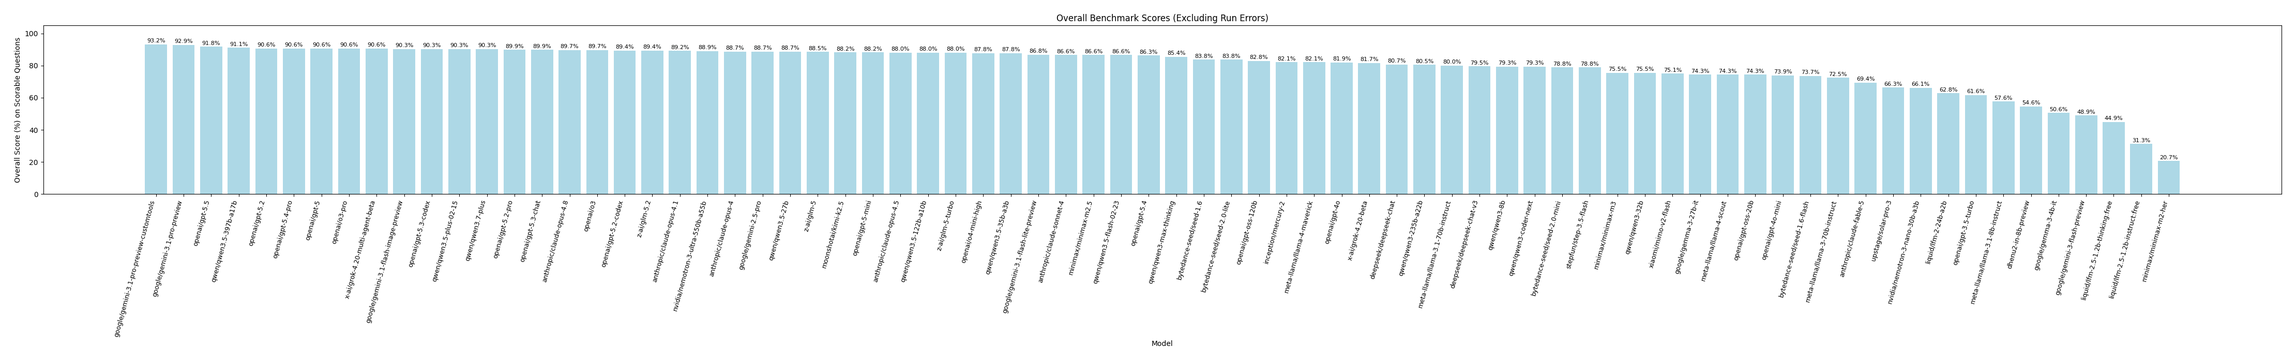
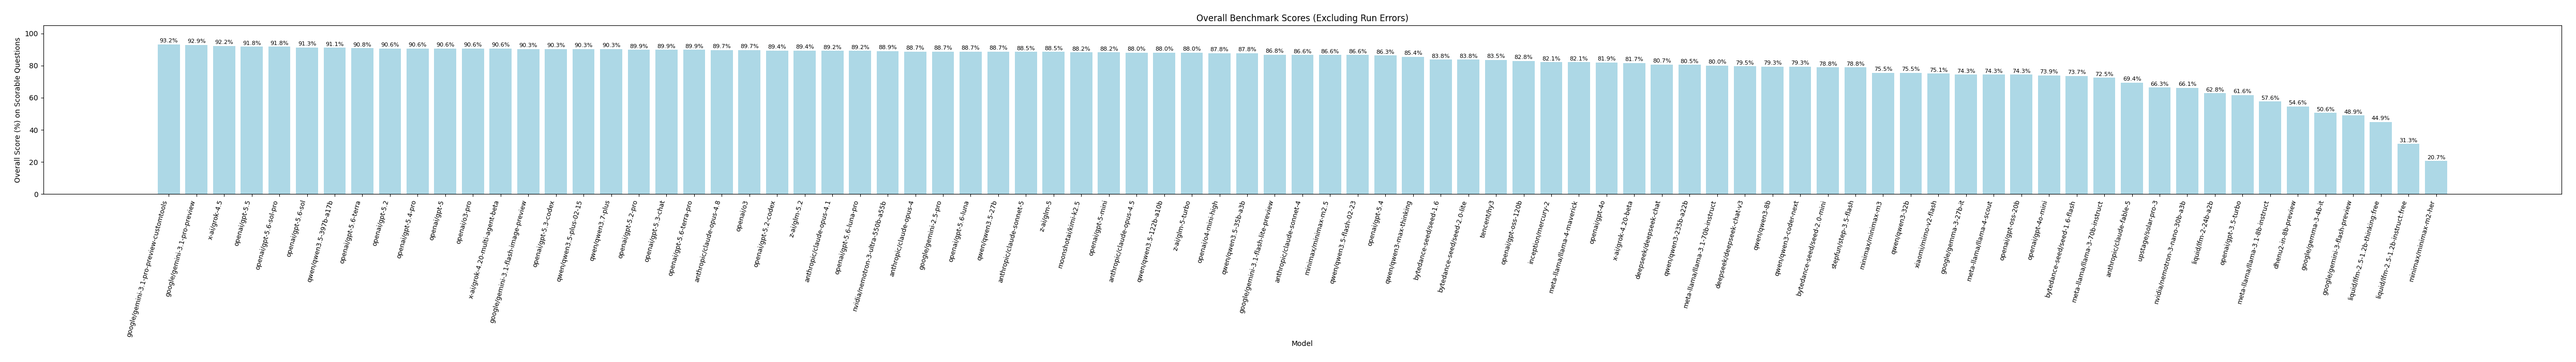
Add July models and quality-first OpenRouter precision routing
Benchmark the requested GPT-5.6, Grok 4.5, HY3, and Sonnet 5 models while enforcing the highest available endpoint quantization for consistent results.

diff --git a/openrouter_catalog.py b/openrouter_catalog.py
@@ -11,6 +11,7 @@ import config
 _OPENROUTER_MODELS_URL = "https://openrouter.ai/api/v1/models"
 _OPENROUTER_BASE_URL = "https://openrouter.ai/api/v1"
 _openrouter_catalog_cache = {}
+_openrouter_endpoint_cache = {}
 
 _OPEN_SOURCE_PREFIXES = {
     "allenai/",
@@ -310,6 +311,100 @@ def fetch_openrouter_model_metadata_map(
 
     _openrouter_catalog_cache[cache_key] = metadata_map
     return metadata_map
+
+
+def _fetch_openrouter_model_endpoints(model_id: str, api_key: str) -> list[dict]:
+    """Fetches OpenRouter provider endpoints for one model (cached per process)."""
+    if model_id in _openrouter_endpoint_cache:
+        return _openrouter_endpoint_cache[model_id]
+
+    request = urllib.request.Request(
+        f"{_OPENROUTER_MODELS_URL}/{model_id}/endpoints",
+        headers={"Authorization": f"Bearer {api_key}"},
+    )
+    with urllib.request.urlopen(request, timeout=30) as response:
+        payload = json.loads(response.read().decode("utf-8"))
+
+    data = payload.get("data") or {}
+    endpoints = data.get("endpoints") or payload.get("endpoints") or []
+    if not isinstance(endpoints, list):
+        endpoints = []
+    _openrouter_endpoint_cache[model_id] = endpoints
+    return endpoints
+
+
+def _select_best_quantization(endpoints: list[dict]) -> tuple[str | None, list[str]]:
+    """Selects the highest-precision known quantization exposed by OpenRouter.
+
+    Closed/first-party models generally report only ``unknown``; in that case we
+    explicitly route to ``unknown`` (provider-managed native precision). For
+    open-weight models, lower quants (FP4/INT4) are excluded whenever a higher
+    precision endpoint exists.
+    """
+    available = {
+        str(endpoint.get("quantization", "")).strip().lower()
+        for endpoint in endpoints
+        if endpoint.get("quantization")
+    }
+    available.discard("")
+
+    preference = tuple(
+        getattr(
+            config,
+            "OPENROUTER_QUANTIZATION_PREFERENCE",
+            ("fp32", "bf16", "fp16", "fp8", "int8", "fp6", "fp4", "int4"),
+        )
+    )
+    for quantization in preference:
+        if quantization in available:
+            return quantization, sorted(available)
+    if "unknown" in available:
+        return "unknown", sorted(available)
+    return None, sorted(available)
+
+
+def annotate_best_quantization(
+    model_configs: list[dict],
+    project_root: str | Path,
+    api_key_env: str,
+) -> list[dict]:
+    """Adds deterministic highest-precision OpenRouter routing to model configs.
+
+    Only OpenRouter-backed configs are modified. If endpoint discovery fails, the
+    request is left unfiltered rather than blocking the benchmark.
+    """
+    if not getattr(config, "OPENROUTER_ENFORCE_BEST_QUANTIZATION", True):
+        return model_configs
+
+    api_key = _load_openrouter_api_key(Path(project_root), api_key_env)
+    for model_config in model_configs:
+        if model_config.get("provider") != "openai_compatible":
+            continue
+        if "openrouter.ai" not in str(model_config.get("base_url", "")):
+            continue
+
+        model_id = model_config.get("model_name_api") or model_config.get("id")
+        try:
+            endpoints = _fetch_openrouter_model_endpoints(model_id, api_key)
+            selected, available = _select_best_quantization(endpoints)
+        except Exception as exc:
+            model_config["quantization_resolution_error"] = (
+                f"{type(exc).__name__}: {exc}"
+            )
+            continue
+
+        model_config["available_quantizations"] = available
+        if selected:
+            model_config["openrouter_quantization"] = selected
+            model_config["openrouter_provider_routing"] = {
+                "quantizations": [selected],
+                "sort": getattr(
+                    config, "OPENROUTER_PROVIDER_SORT_WITHIN_QUANTIZATION", "throughput"
+                ),
+                "allow_fallbacks": True,
+            }
+
+    return model_configs
 
 
 def annotate_vision_support(

diff --git a/config.py b/config.py
@@ -45,6 +45,15 @@ OPENROUTER_DISCOVERED_MODEL_RATE_LIMIT_BACKOFF_SECONDS = 20
 OPENROUTER_DISCOVERED_FREE_MODEL_QUESTION_CONCURRENCY = 1
 OPENROUTER_DISCOVERED_FREE_MODEL_MAX_RETRIES = 6
 OPENROUTER_DISCOVERED_FREE_MODEL_RATE_LIMIT_BACKOFF_SECONDS = 30
+# Route each model only through its highest-precision OpenRouter endpoints.
+# Preference is quality-first; providers are ranked by throughput only after
+# filtering to a single quantization. Closed/first-party models usually expose
+# precision as "unknown", which is treated as provider-managed native precision.
+OPENROUTER_ENFORCE_BEST_QUANTIZATION = True
+OPENROUTER_QUANTIZATION_PREFERENCE = (
+    "fp32", "bf16", "fp16", "fp8", "int8", "fp6", "fp4", "int4",
+)
+OPENROUTER_PROVIDER_SORT_WITHIN_QUANTIZATION = "throughput"
 
 # --- Benchmark Settings ---
 MAX_RETRIES = 5
@@ -109,7 +118,82 @@ ASSISTANT_PROMPT = "Correct answer_options key:" # For models supporting assista
 
 MODELS_TO_RUN = [
 
-    # ========== LATEST SOTA (June 2026) ==========
+    # ========== LATEST SOTA (July 2026) ==========
+
+    {
+        "id": "openai/gpt-5.6-luna-pro",
+        "provider": "openai_compatible",
+        "api_key_env": "OPENROUTER_API_KEY",
+        "base_url": "https://openrouter.ai/api/v1",
+        "model_name_api": "openai/gpt-5.6-luna-pro",
+        "access": "proprietary"
+    },
+    {
+        "id": "openai/gpt-5.6-luna",
+        "provider": "openai_compatible",
+        "api_key_env": "OPENROUTER_API_KEY",
+        "base_url": "https://openrouter.ai/api/v1",
+        "model_name_api": "openai/gpt-5.6-luna",
+        "access": "proprietary"
+    },
+    {
+        "id": "openai/gpt-5.6-terra-pro",
+        "provider": "openai_compatible",
+        "api_key_env": "OPENROUTER_API_KEY",
+        "base_url": "https://openrouter.ai/api/v1",
+        "model_name_api": "openai/gpt-5.6-terra-pro",
+        "access": "proprietary"
+    },
+    {
+        "id": "openai/gpt-5.6-terra",
+        "provider": "openai_compatible",
+        "api_key_env": "OPENROUTER_API_KEY",
+        "base_url": "https://openrouter.ai/api/v1",
+        "model_name_api": "openai/gpt-5.6-terra",
+        "access": "proprietary"
+    },
+    {
+        "id": "openai/gpt-5.6-sol-pro",
+        "provider": "openai_compatible",
+        "api_key_env": "OPENROUTER_API_KEY",
+        "base_url": "https://openrouter.ai/api/v1",
+        "model_name_api": "openai/gpt-5.6-sol-pro",
+        "access": "proprietary"
+    },
+    {
+        "id": "openai/gpt-5.6-sol",
+        "provider": "openai_compatible",
+        "api_key_env": "OPENROUTER_API_KEY",
+        "base_url": "https://openrouter.ai/api/v1",
+        "model_name_api": "openai/gpt-5.6-sol",
+        "access": "proprietary"
+    },
+    {
+        "id": "x-ai/grok-4.5",
+        "provider": "openai_compatible",
+        "api_key_env": "OPENROUTER_API_KEY",
+        "base_url": "https://openrouter.ai/api/v1",
+        "model_name_api": "x-ai/grok-4.5",
+        "access": "proprietary"
+    },
+    {
+        "id": "tencent/hy3",
+        "provider": "openai_compatible",
+        "api_key_env": "OPENROUTER_API_KEY",
+        "base_url": "https://openrouter.ai/api/v1",
+        "model_name_api": "tencent/hy3",
+        "access": "open source"
+    },
+    {
+        "id": "anthropic/claude-sonnet-5",
+        "provider": "openai_compatible",
+        "api_key_env": "OPENROUTER_API_KEY",
+        "base_url": "https://openrouter.ai/api/v1",
+        "model_name_api": "anthropic/claude-sonnet-5",
+        "access": "proprietary",
+        # Current Anthropic models reject assistant-message prefill.
+        "assistant_prompt": None
+    },
 
     {
         "id": "openai/gpt-5.5",

diff --git a/llm_api_calls.py b/llm_api_calls.py
@@ -135,14 +135,26 @@ async def _call_openai_sdk(client: AsyncOpenAI,
         if assistant_prompt:
             messages.append({"role": "assistant", "content": assistant_prompt})
 
-        response = await client.chat.completions.create(
-            model=model_name_api,
-            messages=messages,
-            max_tokens=_param(model_config, "max_tokens", config.TOKENS_TO_REQUEST),
-            n=1,
-            temperature=_param(model_config, "temperature", config.DETERMINISTIC_TEMP),
-            # stream=False
-        )
+        request_kwargs = {
+            "model": model_name_api,
+            "messages": messages,
+            "max_tokens": _param(
+                model_config, "max_tokens", config.TOKENS_TO_REQUEST
+            ),
+            "n": 1,
+            "temperature": _param(
+                model_config, "temperature", config.DETERMINISTIC_TEMP
+            ),
+        }
+        # OpenRouter-specific provider routing is passed through the SDK via
+        # extra_body. Quantization is resolved before the run and filtered to one
+        # highest-precision tier, so fallback providers cannot silently downgrade
+        # a model to FP4/INT4.
+        provider_routing = model_config.get("openrouter_provider_routing")
+        if provider_routing:
+            request_kwargs["extra_body"] = {"provider": provider_routing}
+
+        response = await client.chat.completions.create(**request_kwargs)
         if (
             response.choices
             and response.choices[0].message

diff --git a/main.py b/main.py
@@ -368,6 +368,26 @@ async def main():
 
         # Execute benchmark runs if any models were selected``
         if models_to_run_this_session:
+            openrouter_catalog.annotate_best_quantization(
+                models_to_run_this_session,
+                project_root=Path(__file__).resolve().parent,
+                api_key_env=config.OPENROUTER_DISCOVERY_API_KEY_ENV,
+            )
+            print("\n--- OpenRouter Quantization Routing (quality-first) ---")
+            for model_config in models_to_run_this_session:
+                quantization = model_config.get("openrouter_quantization")
+                available = model_config.get("available_quantizations", [])
+                if quantization:
+                    print(
+                        f"  -> {model_config['id']}: {quantization} "
+                        f"(available: {', '.join(available) or 'unknown'})"
+                    )
+                elif model_config.get("quantization_resolution_error"):
+                    print(
+                        f"  -> Warning {model_config['id']}: "
+                        f"{model_config['quantization_resolution_error']}; "
+                        "using default routing"
+                    )
             await benchmark_runner.run_benchmarks(
                 models_to_run=models_to_run_this_session,
                 benchmark_questions_file=config.BENCHMARK_QUESTIONS_FILE,

diff --git a/benchmark_runner.py b/benchmark_runner.py
@@ -394,6 +394,11 @@ async def run_single_model_benchmark(model_config, benchmark_questions, base_pro
         "retryable": True,
         "question_concurrency": question_concurrency,
         "max_retries": max_retries,
+        "openrouter_quantization": model_config.get("openrouter_quantization"),
+        "available_quantizations": model_config.get("available_quantizations", []),
+        "openrouter_provider_routing": model_config.get(
+            "openrouter_provider_routing"
+        ),
         "multiple_choice": {},
         "resumed_from_checkpoint": False,
     }

diff --git a/README.md b/README.md
@@ -16,8 +16,12 @@
 |------------------------------------------|---------------|------------|-------------|----------------|-------------------------|-----------------|---------------|------------|------------|---------------------|-----------------|----------------|------------------------|
 | google/gemini-3.1-pro-preview-customtools |         93.18% | Proprietary | 2026-06-16  |    $12.0000    |                   92.0% |           92.7% |         66.0% |      72.0% |      80.0% |               94.1% |           91.9% |          95.0% |                  92.4% | (396/425)
 | google/gemini-3.1-pro-preview             |         92.94% | Proprietary | 2026-06-16  |    $12.0000    |                   92.0% |           92.7% |         70.0% |      70.0% |      78.0% |               95.3% |           91.9% |          93.8% |                  91.4% | (395/425)
+| x-ai/grok-4.5                             |         92.24% | Proprietary | 2026-07-09  |    $6.0000     |                   92.0% |           91.2% |         56.0% |      60.0% |      62.0% |               94.1% |           91.9% |          96.2% |                  88.6% | (392/425)
 | openai/gpt-5.5                            |         91.76% | Proprietary | 2026-06-16  |    $30.0000    |                   96.0% |           92.7% |         56.0% |      60.0% |      78.0% |               95.3% |           90.3% |          95.0% |                  85.7% | (390/425)
+| openai/gpt-5.6-sol-pro                    |         91.76% | Proprietary | 2026-07-09  |    $30.0000    |                   96.0% |           92.7% |         68.0% |      60.0% |      66.0% |               94.1% |           87.1% |          93.8% |                  89.5% | (390/425)
+| openai/gpt-5.6-sol                        |         91.29% | Proprietary | 2026-07-09  |    $30.0000    |                   96.0% |           92.7% |         64.0% |      64.0% |      70.0% |               94.1% |           87.1% |          95.0% |                  86.7% | (388/425)
 | qwen/qwen3.5-397b-a17b                    |         91.06% | Open Source | 2026-06-16  |    $2.4500     |                   80.0% |           92.7% |         58.0% |      52.0% |      76.0% |               94.1% |           93.5% |          92.5% |                  87.6% | (387/425)
+| openai/gpt-5.6-terra                      |         90.82% | Proprietary | 2026-07-09  |    $15.0000    |                   96.0% |           92.7% |         56.0% |      58.0% |      68.0% |               91.8% |           90.3% |          93.8% |                  85.7% | (386/425)
 | openai/gpt-5.2                            |         90.59% | Proprietary | 2026-06-16  |    $14.0000    |                   92.0% |           94.1% |         62.0% |      60.0% |      72.0% |               94.1% |           88.7% |          93.8% |                  83.8% | (385/425)
 | openai/gpt-5.4-pro                        |         90.59% | Proprietary | 2026-06-16  |   $180.0000    |                   88.0% |           91.2% |         70.0% |      66.0% |      64.0% |               95.3% |           87.1% |          93.8% |                  86.7% | (385/425)
 | openai/gpt-5                              |         90.59% | Proprietary | 2026-06-16  |    $10.0000    |                   88.0% |           91.2% |         68.0% |      68.0% |      74.0% |               92.9% |           88.7% |          92.5% |                  88.6% | (385/425)
@@ -29,15 +33,19 @@
 | qwen/qwen3.7-plus                         |         90.35% | Open Source | 2026-06-16  |    $1.2800     |                   84.0% |           94.1% |         64.0% |      58.0% |      64.0% |               91.8% |           91.9% |          90.0% |                  87.6% | (384/425)
 | openai/gpt-5.2-pro                        |         89.88% | Proprietary | 2026-06-16  |   $168.0000    |                   92.0% |           91.2% |         66.0% |      60.0% |      80.0% |               92.9% |           88.7% |          91.2% |                  85.7% | (382/425)
 | openai/gpt-5.3-chat                       |         89.88% | Proprietary | 2026-06-16  |    $14.0000    |                   84.0% |           94.1% |         62.0% |      58.0% |      62.0% |               94.1% |           88.7% |          90.0% |                  85.7% | (382/425)
+| openai/gpt-5.6-terra-pro                  |         89.88% | Proprietary | 2026-07-09  |    $15.0000    |                   92.0% |           92.7% |         52.0% |      60.0% |      64.0% |               89.4% |           90.3% |          92.5% |                  85.7% | (382/425)
 | anthropic/claude-opus-4.8                 |         89.65% | Proprietary | 2026-06-16  |    $25.0000    |                   84.0% |           89.7% |         66.0% |      56.0% |      68.0% |               89.4% |           88.7% |          95.0% |                  87.6% | (381/425)
 | openai/o3                                 |         89.65% | Proprietary | 2026-06-16  |    $8.0000     |                   88.0% |           92.7% |         70.0% |      62.0% |      72.0% |               89.4% |           85.5% |          92.5% |                  88.6% | (381/425)
 | openai/gpt-5.2-codex                      |         89.41% | Proprietary | 2026-06-16  |    $14.0000    |                   88.0% |           91.2% |         62.0% |      54.0% |      70.0% |               91.8% |           88.7% |          93.8% |                  83.8% | (380/425)
-| z-ai/glm-5.2                              |         89.41% | Open Source | 2026-06-16  |    $4.4000     |                   84.0% |           91.2% |      N/A      |    N/A     |    N/A     |               90.6% |           88.7% |          91.2% |                  87.6% | (380/425)
+| z-ai/glm-5.2                              |         89.41% | Open Source | 2026-07-09  |    $1.7600     |                   84.0% |           91.2% |      N/A      |    N/A     |    N/A     |               90.6% |           88.7% |          91.2% |                  87.6% | (380/425)
 | anthropic/claude-opus-4.1                 |         89.18% | Proprietary | 2026-06-16  |    $75.0000    |                   84.0% |           88.2% |         54.0% |      56.0% |      46.0% |               91.8% |           91.9% |          91.2% |                  85.7% | (379/425)
+| openai/gpt-5.6-luna-pro                   |         89.18% | Proprietary | 2026-07-09  |    $6.0000     |                   80.0% |           91.2% |         56.0% |      60.0% |      70.0% |               89.4% |           90.3% |          92.5% |                  86.7% | (379/425)
 | nvidia/nemotron-3-ultra-550b-a55b         |         88.94% | Open Source | 2026-06-16  |    $2.2000     |                   88.0% |           91.2% |      N/A      |    N/A     |    N/A     |               90.6% |           85.5% |          91.2% |                  86.7% | (378/425)
 | anthropic/claude-opus-4                   |         88.71% | Proprietary | 2026-06-16  |    $75.0000    |                   84.0% |           89.7% |         48.0% |      56.0% |      48.0% |               89.4% |           90.3% |          91.2% |                  85.7% | (377/425)
 | google/gemini-2.5-pro                     |         88.71% | Proprietary | 2026-06-16  |    $10.0000    |                   84.0% |           91.2% |         58.0% |      64.0% |      80.0% |               88.2% |           88.7% |          90.0% |                  87.6% | (377/425)
+| openai/gpt-5.6-luna                       |         88.71% | Proprietary | 2026-07-09  |    $6.0000     |                   76.0% |           89.7% |         62.0% |      56.0% |      76.0% |               92.9% |           90.3% |          90.0% |                  85.7% | (377/425)
 | qwen/qwen3.5-27b                          |         88.71% | Open Source | 2026-06-16  |    $1.5600     |                   76.0% |           91.2% |         58.0% |      42.0% |      48.0% |               91.8% |           88.7% |          90.0% |                  86.7% | (377/425)
+| anthropic/claude-sonnet-5                 |         88.47% | Proprietary | 2026-07-09  |    $10.0000    |                   76.0% |           89.7% |         56.0% |      66.0% |      64.0% |               91.8% |           88.7% |          91.2% |                  85.7% | (376/425)
 | z-ai/glm-5                                |         88.47% | Open Source | 2026-06-16  |    $1.9200     |                   88.0% |           88.2% |      N/A      |    N/A     |    N/A     |               94.1% |           87.1% |          90.0% |                  83.8% | (376/425)
 | moonshotai/kimi-k2.5                      |         88.24% | Open Source | 2026-06-16  |    $2.0250     |                   84.0% |           86.8% |         72.0% |      56.0% |      74.0% |               90.6% |           87.1% |          90.0% |                  87.6% | (375/425)
 | openai/gpt-5-mini                         |         88.24% | Proprietary | 2026-06-16  |    $2.0000     |                   76.0% |           91.2% |         70.0% |      60.0% |      62.0% |               91.8% |           90.3% |          90.0% |                  83.8% | (375/425)
@@ -54,6 +62,7 @@
 | qwen/qwen3-max-thinking                   |         85.41% | Open Source | 2026-06-16  |    $3.9000     |                   60.0% |           88.2% |      N/A      |    N/A     |    N/A     |               85.9% |           83.9% |          87.5% |                  88.6% | (363/425)
 | bytedance-seed/seed-1.6                   |         83.76% | Proprietary | 2026-06-16  |    $2.0000     |                   68.0% |           86.8% |         68.0% |      56.0% |      62.0% |               82.3% |           83.9% |          85.0% |                  85.7% | (356/425)
 | bytedance-seed/seed-2.0-lite              |         83.76% | Proprietary | 2026-06-16  |    $2.0000     |                   68.0% |           83.8% |         52.0% |      62.0% |      60.0% |               83.5% |           83.9% |          88.8% |                  83.8% | (356/425)
+| tencent/hy3                               |         83.53% | Open Source | 2026-07-09  |    $0.5800     |                   60.0% |           85.3% |      N/A      |    N/A     |    N/A     |               88.2% |           83.9% |          86.2% |                  81.9% | (355/425)
 | openai/gpt-oss-120b                       |         82.82% | Open Source | 2026-06-16  |    $0.1800     |                   56.0% |           85.3% |      N/A      |    N/A     |    N/A     |               84.7% |           83.9% |          90.0% |                  80.0% | (352/425)
 | inception/mercury-2                       |         82.12% | Proprietary | 2026-06-16  |    $0.7500     |                   56.0% |           80.9% |      N/A      |    N/A     |    N/A     |               81.2% |           87.1% |          88.8% |                  81.9% | (349/425)
 | meta-llama/llama-4-maverick               |         82.12% | Open Source | 2026-06-16  |    $0.6000     |                   60.0% |           83.8% |         52.0% |      56.0% |      40.0% |               82.3% |           85.5% |          81.2% |                  84.8% | (349/425)
@@ -63,23 +72,23 @@
 | qwen/qwen3-235b-a22b                      |         80.47% | Open Source | 2026-06-16  |    $1.8200     |                   68.0% |           79.4% |      N/A      |    N/A     |    N/A     |               81.2% |           80.7% |          80.0% |                  83.8% | (342/425)
 | meta-llama/llama-3.1-70b-instruct         |         80.00% | Open Source | 2026-06-16  |    $0.4000     |                   72.0% |           79.4% |      N/A      |    N/A     |    N/A     |               80.0% |           85.5% |          81.2% |                  78.1% | (340/425)
 | deepseek/deepseek-chat-v3                 |         79.53% | Open Source | 2026-06-16  |      N/A       |                   60.0% |           83.8% |      N/A      |    N/A     |    N/A     |               75.3% |           82.3% |          81.2% |                  81.9% | (338/425)
-| qwen/qwen3-8b                             |         79.29% | Open Source | 2026-06-16  |    $0.4000     |                   48.0% |           82.3% |      N/A      |    N/A     |    N/A     |               80.0% |           79.0% |          85.0% |                  80.0% | (337/425)
+| qwen/qwen3-8b                             |         79.29% | Open Source | 2026-06-16  |    $0.4550     |                   48.0% |           82.3% |      N/A      |    N/A     |    N/A     |               80.0% |           79.0% |          85.0% |                  80.0% | (337/425)
 | qwen/qwen3-coder-next                     |         79.29% | Open Source | 2026-06-16  |    $0.8000     |                   56.0% |           83.8% |      N/A      |    N/A     |    N/A     |               76.5% |           85.5% |          83.8% |                  77.1% | (337/425)
 | bytedance-seed/seed-2.0-mini              |         78.82% | Proprietary | 2026-06-16  |    $0.4000     |                   68.0% |           79.4% |         58.0% |      62.0% |      60.0% |               72.9% |           82.3% |          83.8% |                  80.0% | (335/425)
 | stepfun/step-3.5-flash                    |         78.82% | Open Source | 2026-06-16  |    $0.3000     |                   60.0% |           79.4% |      N/A      |    N/A     |    N/A     |               80.0% |           83.9% |          80.0% |                  78.1% | (335/425)
 | minimax/minimax-m3                        |         75.53% | Open Source | 2026-06-16  |    $1.2000     |                   68.0% |           80.9% |         48.0% |      42.0% |      46.0% |               75.3% |           82.3% |          78.8% |                  67.6% | (321/425)
 | qwen/qwen3-32b                            |         75.53% | Open Source | 2026-06-16  |    $0.2800     |                   56.0% |           82.3% |      N/A      |    N/A     |    N/A     |               69.4% |           72.6% |          78.8% |                  80.0% | (321/425)
-| xiaomi/mimo-v2-flash                      |         75.06% | Open Source | 2026-06-16  |    $0.3000     |                   52.0% |           73.5% |      N/A      |    N/A     |    N/A     |               80.0% |           79.0% |          77.5% |                  73.3% | (319/425)
+| xiaomi/mimo-v2-flash                      |         75.06% | Open Source | 2026-06-16  |      N/A       |                   52.0% |           73.5% |      N/A      |    N/A     |    N/A     |               80.0% |           79.0% |          77.5% |                  73.3% | (319/425)
 | google/gemma-3-27b-it                     |         74.35% | Open Source | 2026-06-16  |    $0.1600     |                   48.0% |           75.0% |         52.0% |      44.0% |      34.0% |               71.8% |           83.9% |          76.2% |                  75.2% | (316/425)
 | meta-llama/llama-4-scout                  |         74.35% | Open Source | 2026-06-16  |    $0.3000     |                   64.0% |           75.0% |         40.0% |      52.0% |      34.0% |               71.8% |           79.0% |          80.0% |                  71.4% | (316/425)
 | openai/gpt-oss-20b                        |         74.35% | Open Source | 2026-06-16  |    $0.1400     |                   44.0% |           79.4% |      N/A      |    N/A     |    N/A     |               72.9% |           80.7% |          76.2% |                  74.3% | (316/425)
 | openai/gpt-4o-mini                        |         73.88% | Proprietary | 2026-06-16  |    $0.6000     |                   60.0% |           75.0% |         54.0% |      40.0% |      34.0% |               64.7% |           74.2% |          86.2% |                  74.3% | (314/425)
 | bytedance-seed/seed-1.6-flash             |         73.65% | Proprietary | 2026-06-16  |    $0.3000     |                   40.0% |           75.0% |         60.0% |      64.0% |      62.0% |               72.9% |           79.0% |          77.5% |                  75.2% | (313/425)
-| meta-llama/llama-3-70b-instruct           |         72.47% | Open Source | 2026-06-16  |    $0.7400     |                   44.0% |           77.9% |      N/A      |    N/A     |    N/A     |               70.6% |           80.7% |          72.5% |                  72.4% | (308/425)
+| meta-llama/llama-3-70b-instruct           |         72.47% | Open Source | 2026-06-16  |      N/A       |                   44.0% |           77.9% |      N/A      |    N/A     |    N/A     |               70.6% |           80.7% |          72.5% |                  72.4% | (308/425)
 | anthropic/claude-fable-5                  |         69.41% | Proprietary | 2026-06-15  |    $50.0000    |                   88.0% |           66.2% |      N/A      |    N/A     |    N/A     |               76.5% |           43.5% |          86.2% |                  63.8% | (295/425)
 | upstage/solar-pro-3                       |         66.35% | Proprietary | 2026-06-16  |    $0.6000     |                   48.0% |           63.2% |      N/A      |    N/A     |    N/A     |               63.5% |           69.3% |          72.5% |                  68.6% | (282/425)
 | nvidia/nemotron-3-nano-30b-a3b            |         66.12% | Open Source | 2026-06-16  |    $0.2000     |                   44.0% |           66.2% |      N/A      |    N/A     |    N/A     |               62.4% |           77.4% |          70.0% |                  64.8% | (281/425)
-| liquid/lfm-2-24b-a2b                      |         62.82% | Open Source | 2026-06-16  |    $0.1200     |                   24.0% |           61.8% |      N/A      |    N/A     |    N/A     |               65.9% |           66.1% |          67.5% |                  64.8% | (267/425)
+| liquid/lfm-2-24b-a2b                      |         62.82% | Open Source | 2026-06-16  |      N/A       |                   24.0% |           61.8% |      N/A      |    N/A     |    N/A     |               65.9% |           66.1% |          67.5% |                  64.8% | (267/425)
 | openai/gpt-3.5-turbo                      |         61.65% | Proprietary | 2026-06-16  |    $1.5000     |                   48.0% |           61.8% |      N/A      |    N/A     |    N/A     |               55.3% |           72.6% |          62.5% |                  62.9% | (262/425)
 | meta-llama/llama-3.1-8b-instruct          |         57.65% | Open Source | 2026-06-16  |    $0.0300     |                   44.0% |           57.4% |      N/A      |    N/A     |    N/A     |               54.1% |           71.0% |          61.2% |                  53.3% | (245/425)
 | dhenu2-in-8b-preview                      |         54.59% | Open Source | 2026-06-16  |      N/A       |                   36.0% |           57.4% |      N/A      |    N/A     |    N/A     |               55.3% |           66.1% |          56.2% |                  48.6% | (232/425)
@@ -95,7 +104,7 @@ We are benchmarking the ability for different models to give correct answers to 
 The questions and images themselves are intentionally kept out of this repository so the benchmark can't be gamed; only the aggregate leaderboard and charts are published here.
 
 # Image Identification (vision models)
-This category tests whether vision-capable models can identify agronomic subjects from a single photo. Each question shows one image and asks the model to pick the correct label from four options, covering three domains:
+This category tests whether vision-capable models can identify agronomic subjects from a single photo. Each question shows one image and asks the model to pick the correct label from eight look-alike options, covering three domains:
 
 - **Crop disease** — leaf images labeled by plant and condition (source: PlantVillage)
 - **Insect pests** — labeled pest photos (source: IP102)
@@ -107,6 +116,14 @@ Details:
 - **Scoring:** each image domain is reported as its own column (`Image Disease`, `Image Pest`, `Image Weed`) and all are **excluded from the Overall Score**, so the text-based overall scores remain directly comparable across every model.
 - **Privacy:** the images and questions are not committed to this repository.
 
+# OpenRouter precision standardization
+OpenRouter models are routed with an explicit quality-first quantization policy so a cheaper low-precision provider cannot silently change benchmark quality between runs:
+
+- For open-weight models, the benchmark inspects current OpenRouter endpoints and selects the highest available precision in this order: `FP32 > BF16 > FP16 > FP8 > INT8 > FP6 > FP4 > INT4`.
+- Requests are filtered to that single quantization; fallback providers must use the same precision. Providers are ranked by throughput only after precision is fixed.
+- Closed/first-party models generally expose quantization as `unknown`; this is treated as provider-managed native precision and is recorded as such.
+- The selected and available quantizations are stored in each local result file for auditability (raw results remain private).
+
 # Why?
 When building new models for agriculture, it's important to know if your model is getting better or worse. This is a simple benchmark to help us determine if we are improving the agronomic ability of new models and by how much.
 
@@ -117,6 +134,10 @@ When building new models for agriculture, it's important to know if your model i
 
 
 # Updates
+
+## 2026-07-09
+1. Added GPT-5.6 Luna/Luna Pro, Terra/Terra Pro, Sol/Sol Pro, Grok 4.5, Tencent HY3, Claude Sonnet 5, and re-ran GLM-5.2.
+2. Standardized OpenRouter requests with quality-first quantization routing to prevent low-precision provider fallbacks from changing model quality between runs.
 
 ## 2026-06-15
 1. Added an **Image Identification** category (vision): 150 questions across crop disease (PlantVillage), insect pests (IP102), and weeds (DeepWeeds + CottonWeedID15). Scored only on vision-capable models, reported as its own column and excluded from the overall score.
